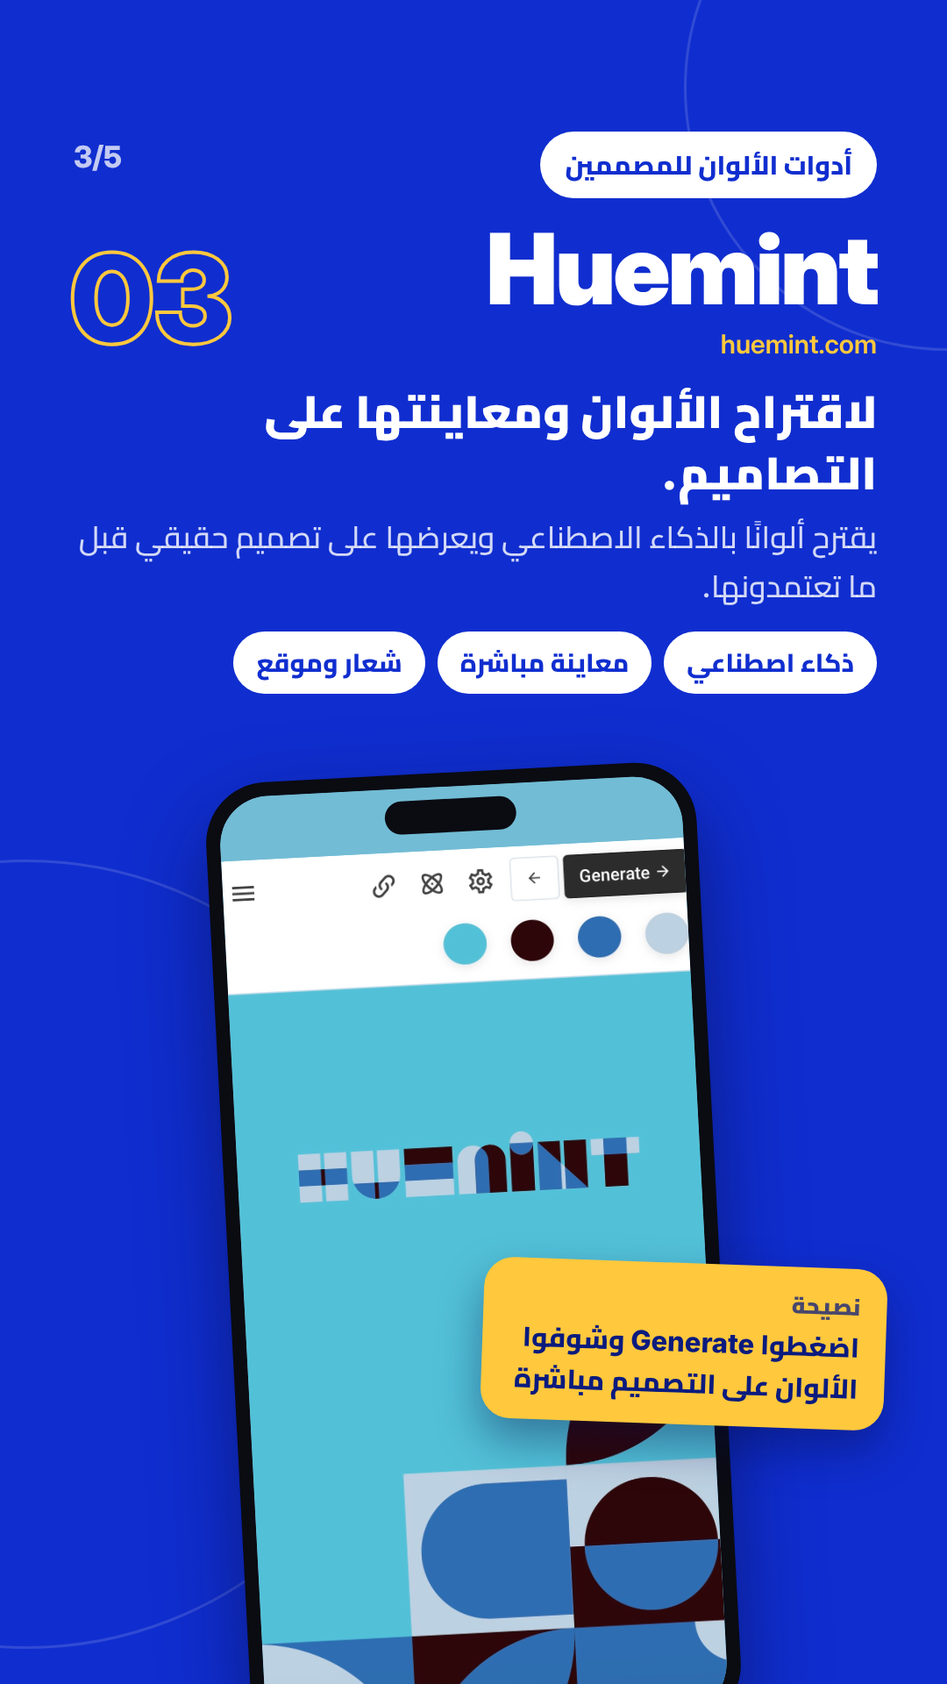
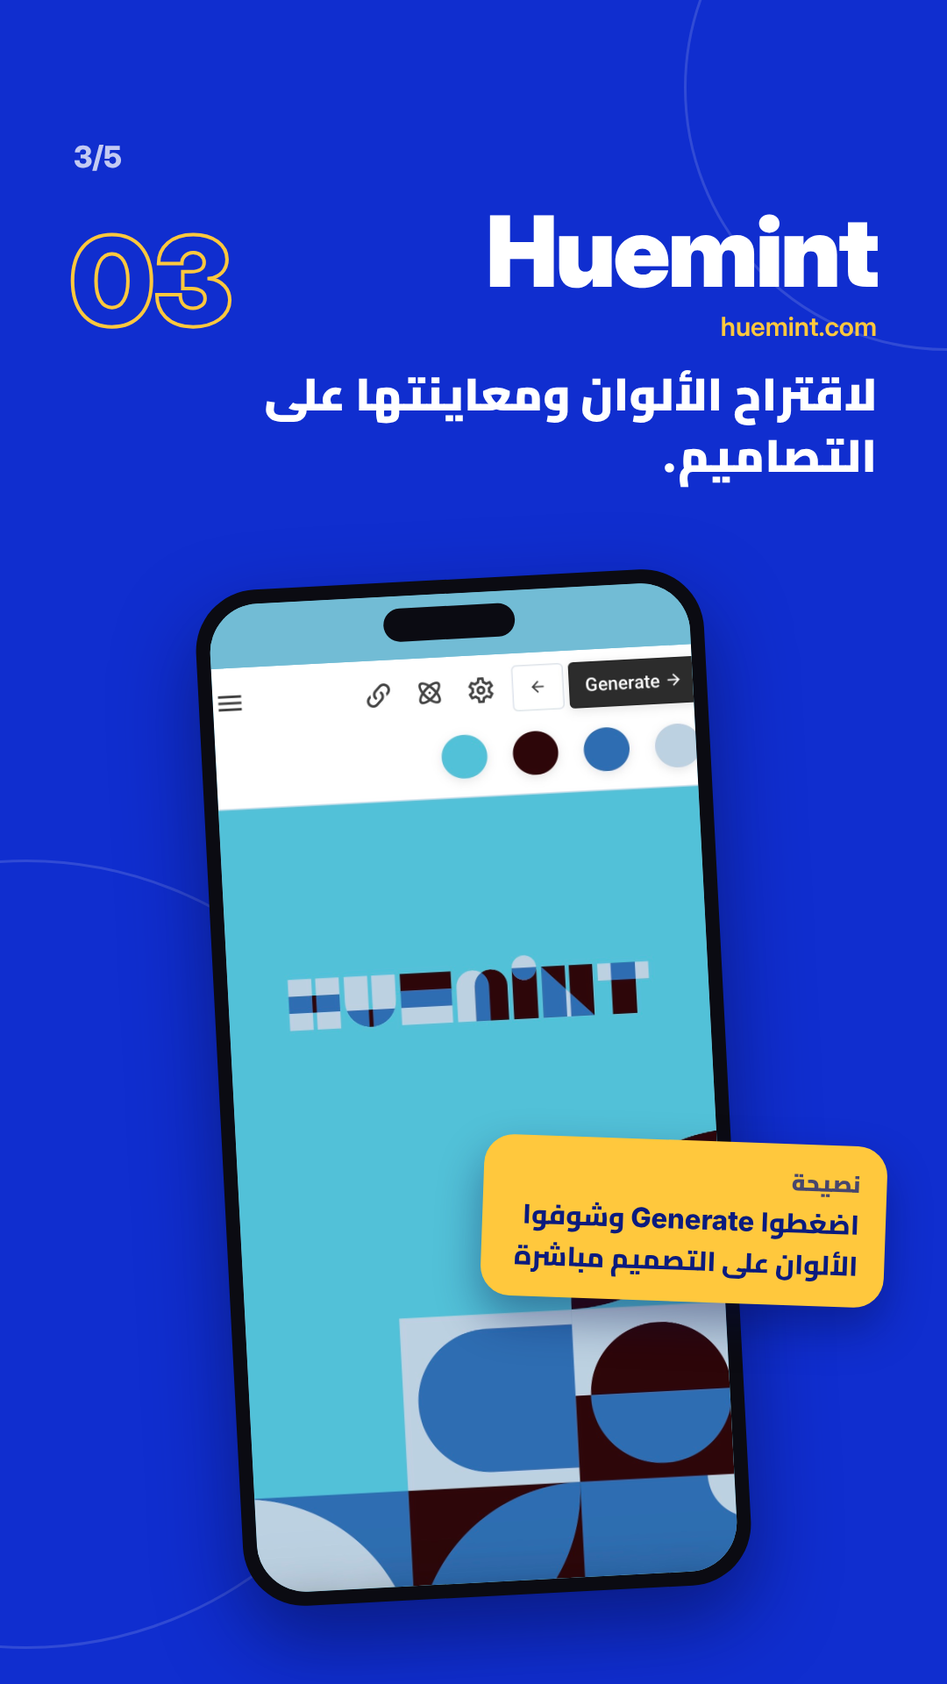
Brand slides: declutter tool slides and outro
Remove the series tag, the description paragraph and the feature chips;
move the phone mockup up so the full screenshot shows.

Claude-Session: https://claude.ai/code/session_01HmuEa21xmTYJVbHUyErKJW

diff --git a/tiktok-color-tools/slides-brand/01-adobe-color.html b/tiktok-color-tools/slides-brand/01-adobe-color.html
@@ -10,7 +10,7 @@ body { background:#102ECF; color:#FFFFFF; }
 .tag { position:absolute; top:150px; right:80px; font-size:30px; font-weight:800; padding:10px 28px; border-radius:999px; background:#FFFFFF; color:#102ECF; }
 .count { position:absolute; top:158px; left:84px; font-size:34px; font-weight:800; color:rgba(255,255,255,.75); }
 
-.head { position:absolute; top:250px; right:80px; left:80px; }
+.head { position:absolute; top:230px; right:80px; left:80px; }
 .row { display:flex; justify-content:space-between; align-items:flex-end; }
 .num { font-size:140px; line-height:1; font-weight:900; color:transparent; -webkit-text-stroke:4px #FFC83D; }
 .name { font-size:112px; font-weight:900; line-height:1; letter-spacing:-3px; text-align:right; }
@@ -19,25 +19,22 @@ body { background:#102ECF; color:#FFFFFF; }
 .desc { font-size:35px; font-weight:500; line-height:1.6; margin-top:10px; color:rgba(255,255,255,.82); }
 .chips { display:flex; gap:14px; flex-wrap:wrap; margin-top:24px; }
 .chip { font-size:29px; font-weight:800; padding:8px 26px; border-radius:999px; background:#FFFFFF; color:#102ECF; }
-.phone { position:absolute; left:50%; top:880px; width:560px; height:1100px; margin-left:-280px; background:#0B0B12;
+.phone { position:absolute; left:50%; top:660px; width:580px; height:1160px; margin-left:-290px; background:#0B0B12;
   border-radius:70px; padding:16px; box-shadow:0 40px 90px rgba(5,12,70,.55); transform:rotate(-3deg); }
 .screen { width:100%; height:100%; border-radius:56px; overflow:hidden; background:#F8F8F8; display:flex; flex-direction:column; }
 .status { height:72px; flex:none; position:relative; background:#F8F8F8; }
 .notch { position:absolute; top:14px; left:50%; width:150px; height:38px; margin-left:-75px; background:#0B0B12; border-radius:20px; }
 .screen img { width:100%; flex:1; min-height:0; object-fit:cover; object-position:top; display:block; }
-.tip { position:absolute; right:70px; top:1440px; width:460px; background:#FFC83D; color:#0A1B7E; border-radius:34px; padding:24px 30px;
+.tip { position:absolute; right:70px; top:1300px; width:460px; background:#FFC83D; color:#0A1B7E; border-radius:34px; padding:24px 30px;
   font-size:31px; font-weight:800; line-height:1.5; box-shadow:0 24px 50px rgba(5,12,70,.4); transform:rotate(2deg); }
 .tip b { display:block; font-size:26px; font-weight:900; opacity:.75; margin-bottom:4px; }
 </style></head><body>
 <div class="ring" style="width:900px;height:900px;left:-420px;top:980px"></div><div class="ring" style="width:600px;height:600px;right:-300px;top:-200px"></div>
-<span class="tag">أدوات الألوان للمصممين</span>
 <span class="count latin">1/5</span>
 <div class="head">
   <div class="row"><div><div class="name latin">Adobe Color</div><div class="url latin">color.adobe.com</div></div>
   <div class="num latin">01</div></div>
   <div class="line">لإنشاء لوحات لونية وفق قواعد تناغم الألوان.</div>
-  <div class="desc">اختاروا لونًا أساسيًا، طبّقوا قاعدة تناغم، وتطلع لكم لوحة متوازنة فورًا.</div>
-  <div class="chips"><span class="chip">عجلة الألوان</span><span class="chip">ألوان من صورة</span><span class="chip">فحص التباين</span></div>
 </div>
 <div class="phone"><div class="screen"><div class="status"><div class="notch"></div></div>
 <img src="../screens/adobe-color.jpg"></div></div>

diff --git a/tiktok-color-tools/slides-brand/04-color-hunt.html b/tiktok-color-tools/slides-brand/04-color-hunt.html
@@ -10,7 +10,7 @@ body { background:#102ECF; color:#FFFFFF; }
 .tag { position:absolute; top:150px; right:80px; font-size:30px; font-weight:800; padding:10px 28px; border-radius:999px; background:#FFFFFF; color:#102ECF; }
 .count { position:absolute; top:158px; left:84px; font-size:34px; font-weight:800; color:rgba(255,255,255,.75); }
 
-.head { position:absolute; top:250px; right:80px; left:80px; }
+.head { position:absolute; top:230px; right:80px; left:80px; }
 .row { display:flex; justify-content:space-between; align-items:flex-end; }
 .num { font-size:140px; line-height:1; font-weight:900; color:transparent; -webkit-text-stroke:4px #FFC83D; }
 .name { font-size:112px; font-weight:900; line-height:1; letter-spacing:-3px; text-align:right; }
@@ -19,25 +19,22 @@ body { background:#102ECF; color:#FFFFFF; }
 .desc { font-size:35px; font-weight:500; line-height:1.6; margin-top:10px; color:rgba(255,255,255,.82); }
 .chips { display:flex; gap:14px; flex-wrap:wrap; margin-top:24px; }
 .chip { font-size:29px; font-weight:800; padding:8px 26px; border-radius:999px; background:#FFFFFF; color:#102ECF; }
-.phone { position:absolute; left:50%; top:880px; width:560px; height:1100px; margin-left:-280px; background:#0B0B12;
+.phone { position:absolute; left:50%; top:660px; width:580px; height:1160px; margin-left:-290px; background:#0B0B12;
   border-radius:70px; padding:16px; box-shadow:0 40px 90px rgba(5,12,70,.55); transform:rotate(-3deg); }
 .screen { width:100%; height:100%; border-radius:56px; overflow:hidden; background:#FFFFFF; display:flex; flex-direction:column; }
 .status { height:72px; flex:none; position:relative; background:#FFFFFF; }
 .notch { position:absolute; top:14px; left:50%; width:150px; height:38px; margin-left:-75px; background:#0B0B12; border-radius:20px; }
 .screen img { width:100%; flex:1; min-height:0; object-fit:cover; object-position:top; display:block; }
-.tip { position:absolute; right:70px; top:1440px; width:460px; background:#FFC83D; color:#0A1B7E; border-radius:34px; padding:24px 30px;
+.tip { position:absolute; right:70px; top:1300px; width:460px; background:#FFC83D; color:#0A1B7E; border-radius:34px; padding:24px 30px;
   font-size:31px; font-weight:800; line-height:1.5; box-shadow:0 24px 50px rgba(5,12,70,.4); transform:rotate(2deg); }
 .tip b { display:block; font-size:26px; font-weight:900; opacity:.75; margin-bottom:4px; }
 </style></head><body>
 <div class="ring" style="width:900px;height:900px;left:-420px;top:980px"></div><div class="ring" style="width:600px;height:600px;right:-300px;top:-200px"></div>
-<span class="tag">أدوات الألوان للمصممين</span>
 <span class="count latin">4/5</span>
 <div class="head">
   <div class="row"><div><div class="name latin">Color Hunt</div><div class="url latin">colorhunt.co</div></div>
   <div class="num latin">04</div></div>
   <div class="line">لاستكشاف مجموعات لونية جاهزة.</div>
-  <div class="desc">آلاف اللوحات الجاهزة من مصممين، فرّزوها بالأحدث أو الأشهر واحفظوا المفضّلة.</div>
-  <div class="chips"><span class="chip">الأحدث</span><span class="chip">الأشهر</span><span class="chip">عشوائي</span><span class="chip">مجموعتي</span></div>
 </div>
 <div class="phone"><div class="screen"><div class="status"><div class="notch"></div></div>
 <img src="../screens/color-hunt.jpg"></div></div>

diff --git a/tiktok-color-tools/slides-brand/03-huemint.html b/tiktok-color-tools/slides-brand/03-huemint.html
@@ -10,7 +10,7 @@ body { background:#102ECF; color:#FFFFFF; }
 .tag { position:absolute; top:150px; right:80px; font-size:30px; font-weight:800; padding:10px 28px; border-radius:999px; background:#FFFFFF; color:#102ECF; }
 .count { position:absolute; top:158px; left:84px; font-size:34px; font-weight:800; color:rgba(255,255,255,.75); }
 
-.head { position:absolute; top:250px; right:80px; left:80px; }
+.head { position:absolute; top:230px; right:80px; left:80px; }
 .row { display:flex; justify-content:space-between; align-items:flex-end; }
 .num { font-size:140px; line-height:1; font-weight:900; color:transparent; -webkit-text-stroke:4px #FFC83D; }
 .name { font-size:112px; font-weight:900; line-height:1; letter-spacing:-3px; text-align:right; }
@@ -19,25 +19,22 @@ body { background:#102ECF; color:#FFFFFF; }
 .desc { font-size:35px; font-weight:500; line-height:1.6; margin-top:10px; color:rgba(255,255,255,.82); }
 .chips { display:flex; gap:14px; flex-wrap:wrap; margin-top:24px; }
 .chip { font-size:29px; font-weight:800; padding:8px 26px; border-radius:999px; background:#FFFFFF; color:#102ECF; }
-.phone { position:absolute; left:50%; top:880px; width:560px; height:1100px; margin-left:-280px; background:#0B0B12;
+.phone { position:absolute; left:50%; top:660px; width:580px; height:1160px; margin-left:-290px; background:#0B0B12;
   border-radius:70px; padding:16px; box-shadow:0 40px 90px rgba(5,12,70,.55); transform:rotate(-3deg); }
 .screen { width:100%; height:100%; border-radius:56px; overflow:hidden; background:#72BCD5; display:flex; flex-direction:column; }
 .status { height:72px; flex:none; position:relative; background:#72BCD5; }
 .notch { position:absolute; top:14px; left:50%; width:150px; height:38px; margin-left:-75px; background:#0B0B12; border-radius:20px; }
 .screen img { width:100%; flex:1; min-height:0; object-fit:cover; object-position:top; display:block; }
-.tip { position:absolute; right:70px; top:1440px; width:460px; background:#FFC83D; color:#0A1B7E; border-radius:34px; padding:24px 30px;
+.tip { position:absolute; right:70px; top:1300px; width:460px; background:#FFC83D; color:#0A1B7E; border-radius:34px; padding:24px 30px;
   font-size:31px; font-weight:800; line-height:1.5; box-shadow:0 24px 50px rgba(5,12,70,.4); transform:rotate(2deg); }
 .tip b { display:block; font-size:26px; font-weight:900; opacity:.75; margin-bottom:4px; }
 </style></head><body>
 <div class="ring" style="width:900px;height:900px;left:-420px;top:980px"></div><div class="ring" style="width:600px;height:600px;right:-300px;top:-200px"></div>
-<span class="tag">أدوات الألوان للمصممين</span>
 <span class="count latin">3/5</span>
 <div class="head">
   <div class="row"><div><div class="name latin">Huemint</div><div class="url latin">huemint.com</div></div>
   <div class="num latin">03</div></div>
   <div class="line">لاقتراح الألوان ومعاينتها على التصاميم.</div>
-  <div class="desc">يقترح ألوانًا بالذكاء الاصطناعي ويعرضها على تصميم حقيقي قبل ما تعتمدونها.</div>
-  <div class="chips"><span class="chip">ذكاء اصطناعي</span><span class="chip">معاينة مباشرة</span><span class="chip">شعار وموقع</span></div>
 </div>
 <div class="phone"><div class="screen"><div class="status"><div class="notch"></div></div>
 <img src="../screens/huemint.jpg"></div></div>

diff --git a/tiktok-color-tools/slides-brand/05-paletton.html b/tiktok-color-tools/slides-brand/05-paletton.html
@@ -10,7 +10,7 @@ body { background:#102ECF; color:#FFFFFF; }
 .tag { position:absolute; top:150px; right:80px; font-size:30px; font-weight:800; padding:10px 28px; border-radius:999px; background:#FFFFFF; color:#102ECF; }
 .count { position:absolute; top:158px; left:84px; font-size:34px; font-weight:800; color:rgba(255,255,255,.75); }
 
-.head { position:absolute; top:250px; right:80px; left:80px; }
+.head { position:absolute; top:230px; right:80px; left:80px; }
 .row { display:flex; justify-content:space-between; align-items:flex-end; }
 .num { font-size:140px; line-height:1; font-weight:900; color:transparent; -webkit-text-stroke:4px #FFC83D; }
 .name { font-size:112px; font-weight:900; line-height:1; letter-spacing:-3px; text-align:right; }
@@ -19,25 +19,22 @@ body { background:#102ECF; color:#FFFFFF; }
 .desc { font-size:35px; font-weight:500; line-height:1.6; margin-top:10px; color:rgba(255,255,255,.82); }
 .chips { display:flex; gap:14px; flex-wrap:wrap; margin-top:24px; }
 .chip { font-size:29px; font-weight:800; padding:8px 26px; border-radius:999px; background:#FFFFFF; color:#102ECF; }
-.phone { position:absolute; left:50%; top:880px; width:560px; height:1100px; margin-left:-280px; background:#0B0B12;
+.phone { position:absolute; left:50%; top:660px; width:580px; height:1160px; margin-left:-290px; background:#0B0B12;
   border-radius:70px; padding:16px; box-shadow:0 40px 90px rgba(5,12,70,.55); transform:rotate(-3deg); }
 .screen { width:100%; height:100%; border-radius:56px; overflow:hidden; background:#2A2A2A; display:flex; flex-direction:column; }
 .status { height:72px; flex:none; position:relative; background:#2A2A2A; }
 .notch { position:absolute; top:14px; left:50%; width:150px; height:38px; margin-left:-75px; background:#0B0B12; border-radius:20px; }
 .screen img { width:100%; flex:1; min-height:0; object-fit:cover; object-position:top; display:block; }
-.tip { position:absolute; right:70px; top:1440px; width:460px; background:#FFC83D; color:#0A1B7E; border-radius:34px; padding:24px 30px;
+.tip { position:absolute; right:70px; top:1300px; width:460px; background:#FFC83D; color:#0A1B7E; border-radius:34px; padding:24px 30px;
   font-size:31px; font-weight:800; line-height:1.5; box-shadow:0 24px 50px rgba(5,12,70,.4); transform:rotate(2deg); }
 .tip b { display:block; font-size:26px; font-weight:900; opacity:.75; margin-bottom:4px; }
 </style></head><body>
 <div class="ring" style="width:900px;height:900px;left:-420px;top:980px"></div><div class="ring" style="width:600px;height:600px;right:-300px;top:-200px"></div>
-<span class="tag">أدوات الألوان للمصممين</span>
 <span class="count latin">5/5</span>
 <div class="head">
   <div class="row"><div><div class="name latin">Paletton</div><div class="url latin">paletton.com</div></div>
   <div class="num latin">05</div></div>
   <div class="line">لتنسيق الألوان باستخدام عجلة الألوان.</div>
-  <div class="desc">حرّكوا النقطة على العجلة واختاروا نوع التنسيق، ويعطيكم درجات كل لون.</div>
-  <div class="chips"><span class="chip">أحادي</span><span class="chip">متجاور</span><span class="chip">ثلاثي</span><span class="chip">رباعي</span></div>
 </div>
 <div class="phone"><div class="screen"><div class="status"><div class="notch"></div></div>
 <img src="../screens/paletton.jpg"></div></div>

diff --git a/tiktok-color-tools/slides-brand/02-coolors.html b/tiktok-color-tools/slides-brand/02-coolors.html
@@ -10,7 +10,7 @@ body { background:#102ECF; color:#FFFFFF; }
 .tag { position:absolute; top:150px; right:80px; font-size:30px; font-weight:800; padding:10px 28px; border-radius:999px; background:#FFFFFF; color:#102ECF; }
 .count { position:absolute; top:158px; left:84px; font-size:34px; font-weight:800; color:rgba(255,255,255,.75); }
 
-.head { position:absolute; top:250px; right:80px; left:80px; }
+.head { position:absolute; top:230px; right:80px; left:80px; }
 .row { display:flex; justify-content:space-between; align-items:flex-end; }
 .num { font-size:140px; line-height:1; font-weight:900; color:transparent; -webkit-text-stroke:4px #FFC83D; }
 .name { font-size:112px; font-weight:900; line-height:1; letter-spacing:-3px; text-align:right; }
@@ -19,25 +19,22 @@ body { background:#102ECF; color:#FFFFFF; }
 .desc { font-size:35px; font-weight:500; line-height:1.6; margin-top:10px; color:rgba(255,255,255,.82); }
 .chips { display:flex; gap:14px; flex-wrap:wrap; margin-top:24px; }
 .chip { font-size:29px; font-weight:800; padding:8px 26px; border-radius:999px; background:#FFFFFF; color:#102ECF; }
-.phone { position:absolute; left:50%; top:880px; width:560px; height:1100px; margin-left:-280px; background:#0B0B12;
+.phone { position:absolute; left:50%; top:660px; width:580px; height:1160px; margin-left:-290px; background:#0B0B12;
   border-radius:70px; padding:16px; box-shadow:0 40px 90px rgba(5,12,70,.55); transform:rotate(-3deg); }
 .screen { width:100%; height:100%; border-radius:56px; overflow:hidden; background:#FFFFFF; display:flex; flex-direction:column; }
 .status { height:72px; flex:none; position:relative; background:#FFFFFF; }
 .notch { position:absolute; top:14px; left:50%; width:150px; height:38px; margin-left:-75px; background:#0B0B12; border-radius:20px; }
 .screen img { width:100%; flex:1; min-height:0; object-fit:cover; object-position:top; display:block; }
-.tip { position:absolute; right:70px; top:1440px; width:460px; background:#FFC83D; color:#0A1B7E; border-radius:34px; padding:24px 30px;
+.tip { position:absolute; right:70px; top:1300px; width:460px; background:#FFC83D; color:#0A1B7E; border-radius:34px; padding:24px 30px;
   font-size:31px; font-weight:800; line-height:1.5; box-shadow:0 24px 50px rgba(5,12,70,.4); transform:rotate(2deg); }
 .tip b { display:block; font-size:26px; font-weight:900; opacity:.75; margin-bottom:4px; }
 </style></head><body>
 <div class="ring" style="width:900px;height:900px;left:-420px;top:980px"></div><div class="ring" style="width:600px;height:600px;right:-300px;top:-200px"></div>
-<span class="tag">أدوات الألوان للمصممين</span>
 <span class="count latin">2/5</span>
 <div class="head">
   <div class="row"><div><div class="name latin">Coolors</div><div class="url latin">coolors.co</div></div>
   <div class="num latin">02</div></div>
   <div class="line">لتوليد مجموعات لونية متناسقة بسرعة.</div>
-  <div class="desc">كل ضغطة تعطيكم لوحة جديدة، ثبّتوا اللون اللي يعجبكم وكمّلوا التوليد.</div>
-  <div class="chips"><span class="chip">توليد سريع</span><span class="chip">تثبيت الألوان</span><span class="chip">+10M لوحة</span></div>
 </div>
 <div class="phone"><div class="screen"><div class="status"><div class="notch"></div></div>
 <img src="../screens/coolors.jpg"></div></div>

diff --git a/tiktok-color-tools/slides-brand/06-outro.html b/tiktok-color-tools/slides-brand/06-outro.html
@@ -24,7 +24,6 @@ h2 span { color:#FFC83D; }
   color:#0A1B7E; border-radius:999px; padding:38px 24px; }
 </style></head><body>
 <div class="ring" style="width:900px;height:900px;left:-420px;top:980px"></div><div class="ring" style="width:600px;height:600px;right:-300px;top:-200px"></div>
-<span class="tag">سلسلة أدوات المصمم</span>
 <h2>أي موقع بتجربونه <span>أول؟</span></h2>
 <div class="sub">قولوا لي في التعليقات 👇</div>
 <div class="list"><div class="r"><span class="lg" style="background:#F8F8F8"><img src="../logos/adobe.png"></span><span class="tx"><span class="nm latin">Adobe Color</span><span class="w">لإنشاء لوحات لونية وفق قواعد تناغم الألوان</span></span></div><div class="r"><span class="lg" style="background:#FFFFFF"><img src="../logos/coolors.png"></span><span class="tx"><span class="nm latin">Coolors</span><span class="w">لتوليد مجموعات لونية متناسقة بسرعة</span></span></div><div class="r"><span class="lg" style="background:#72BCD5"><img src="../logos/huemint.png"></span><span class="tx"><span class="nm latin">Huemint</span><span class="w">لاقتراح الألوان ومعاينتها على التصاميم</span></span></div><div class="r"><span class="lg" style="background:#FFFFFF"><img src="../logos/colorhunt.png"></span><span class="tx"><span class="nm latin">Color Hunt</span><span class="w">لاستكشاف مجموعات لونية جاهزة</span></span></div><div class="r"><span class="lg" style="background:#2A2A2A"><img src="../logos/paletton-wheel.png"></span><span class="tx"><span class="nm latin">Paletton</span><span class="w">لتنسيق الألوان باستخدام عجلة الألوان</span></span></div></div>

diff --git a/tiktok-color-tools/build_brand.py b/tiktok-color-tools/build_brand.py
@@ -33,7 +33,7 @@ def tool_html(t, i, total):
     _, sbg, _ = LOGOS[t["slug"]]  # screenshot's own background, used for the phone status bar
     chips = "".join(f'<span class="chip">{c}</span>' for c in t["chips"])
     return f"""<!doctype html><html lang="ar"><head><meta charset="utf-8"><title>{t['name']}</title><style>{CSS}
-.head {{ position:absolute; top:250px; right:80px; left:80px; }}
+.head {{ position:absolute; top:230px; right:80px; left:80px; }}
 .row {{ display:flex; justify-content:space-between; align-items:flex-end; }}
 .num {{ font-size:140px; line-height:1; font-weight:900; color:transparent; -webkit-text-stroke:4px {SUN}; }}
 .name {{ font-size:112px; font-weight:900; line-height:1; letter-spacing:-3px; text-align:right; }}
@@ -42,25 +42,22 @@ def tool_html(t, i, total):
 .desc {{ font-size:35px; font-weight:500; line-height:1.6; margin-top:10px; color:rgba(255,255,255,.82); }}
 .chips {{ display:flex; gap:14px; flex-wrap:wrap; margin-top:24px; }}
 .chip {{ font-size:29px; font-weight:800; padding:8px 26px; border-radius:999px; background:{WHITE}; color:{BLUE}; }}
-.phone {{ position:absolute; left:50%; top:880px; width:560px; height:1100px; margin-left:-280px; background:#0B0B12;
+.phone {{ position:absolute; left:50%; top:660px; width:580px; height:1160px; margin-left:-290px; background:#0B0B12;
   border-radius:70px; padding:16px; box-shadow:0 40px 90px rgba(5,12,70,.55); transform:rotate(-3deg); }}
 .screen {{ width:100%; height:100%; border-radius:56px; overflow:hidden; background:{sbg}; display:flex; flex-direction:column; }}
 .status {{ height:72px; flex:none; position:relative; background:{sbg}; }}
 .notch {{ position:absolute; top:14px; left:50%; width:150px; height:38px; margin-left:-75px; background:#0B0B12; border-radius:20px; }}
 .screen img {{ width:100%; flex:1; min-height:0; object-fit:cover; object-position:top; display:block; }}
-.tip {{ position:absolute; right:70px; top:1440px; width:460px; background:{SUN}; color:{NAVY}; border-radius:34px; padding:24px 30px;
+.tip {{ position:absolute; right:70px; top:1300px; width:460px; background:{SUN}; color:{NAVY}; border-radius:34px; padding:24px 30px;
   font-size:31px; font-weight:800; line-height:1.5; box-shadow:0 24px 50px rgba(5,12,70,.4); transform:rotate(2deg); }}
 .tip b {{ display:block; font-size:26px; font-weight:900; opacity:.75; margin-bottom:4px; }}
 </style></head><body>
 {RINGS}
-<span class="tag">أدوات الألوان للمصممين</span>
 <span class="count latin">{i}/{total}</span>
 <div class="head">
   <div class="row"><div><div class="name latin">{t['name']}</div><div class="url latin">{t['url']}</div></div>
   <div class="num latin">0{i}</div></div>
   <div class="line">{t['line']}</div>
-  <div class="desc">{t['desc']}</div>
-  <div class="chips">{chips}</div>
 </div>
 <div class="phone"><div class="screen"><div class="status"><div class="notch"></div></div>
 <img src="../screens/{t['img']}"></div></div>
@@ -105,7 +102,6 @@ h2 span {{ color:{SUN}; }}
   color:{NAVY}; border-radius:999px; padding:38px 24px; }}
 </style></head><body>
 {RINGS}
-<span class="tag">سلسلة أدوات المصمم</span>
 <h2>أي موقع بتجربونه <span>أول؟</span></h2>
 <div class="sub">قولوا لي في التعليقات 👇</div>
 <div class="list">{rows}</div>
